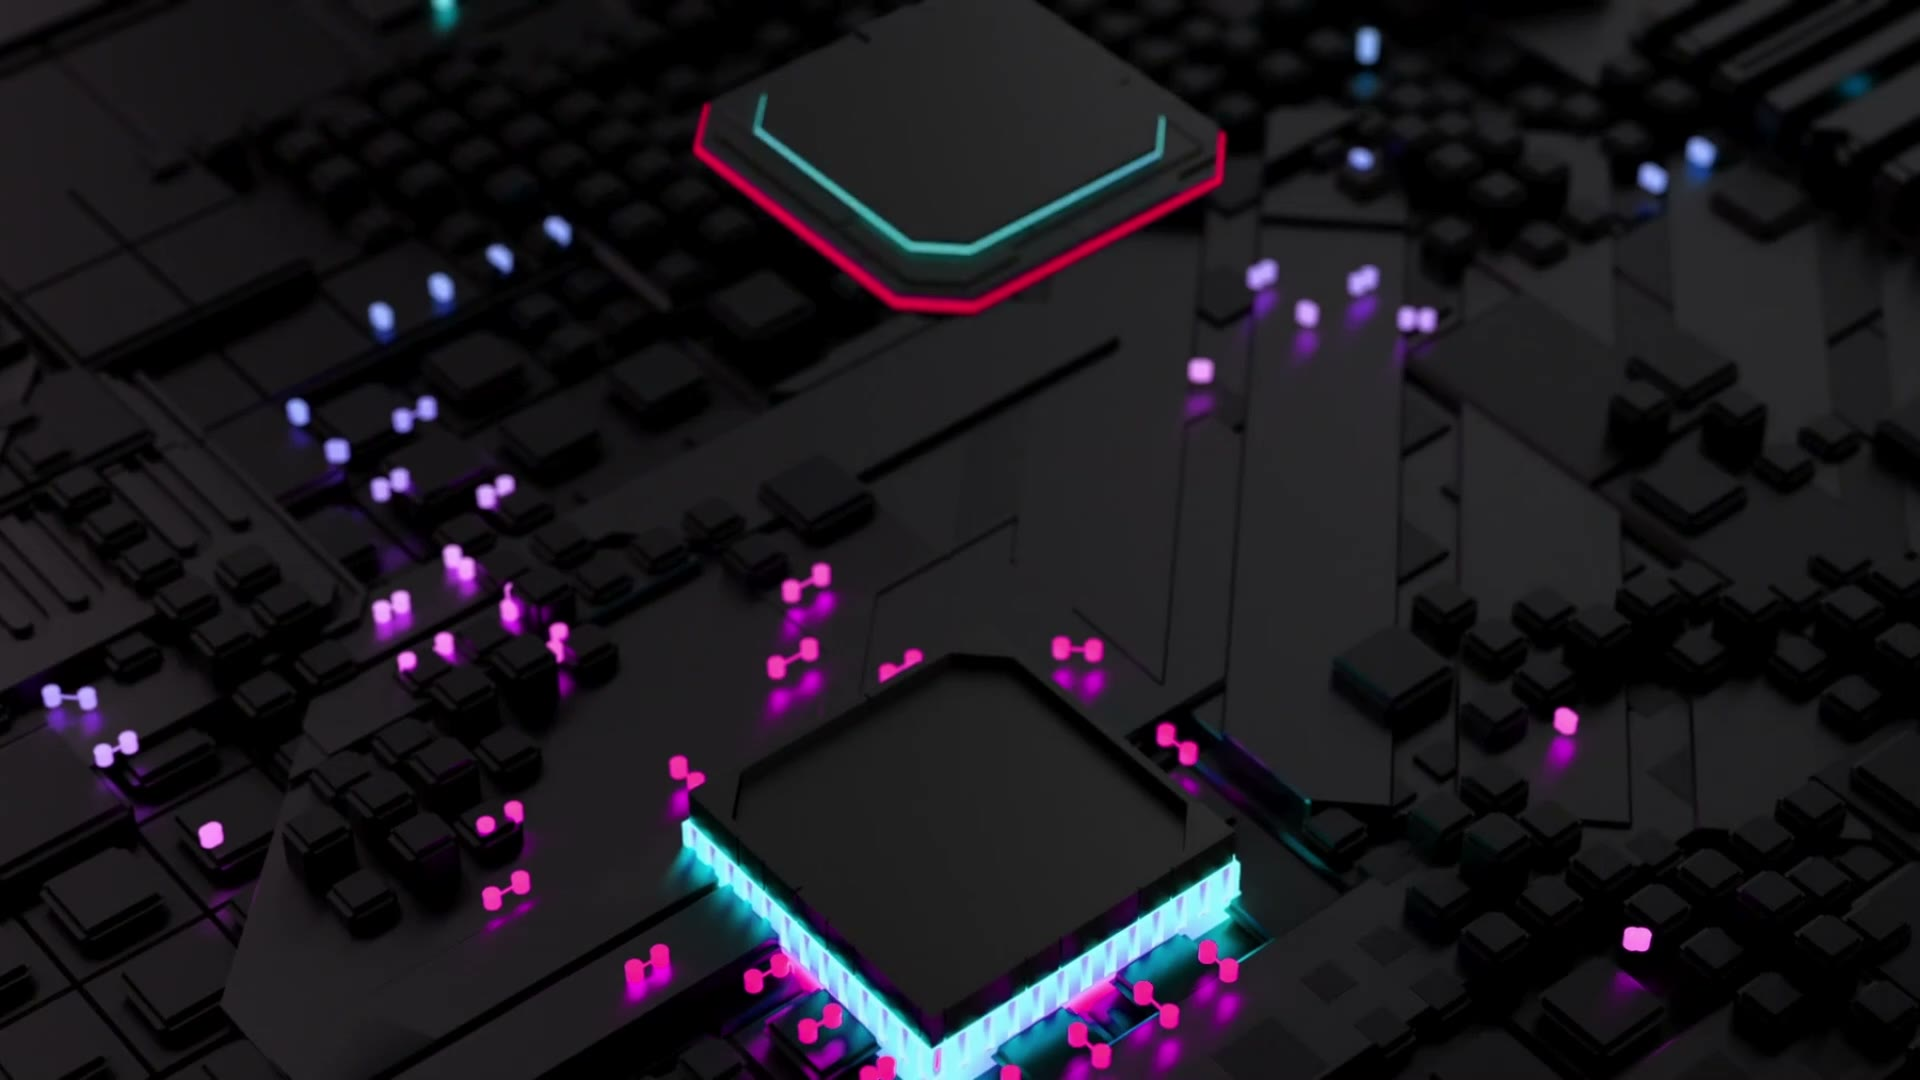
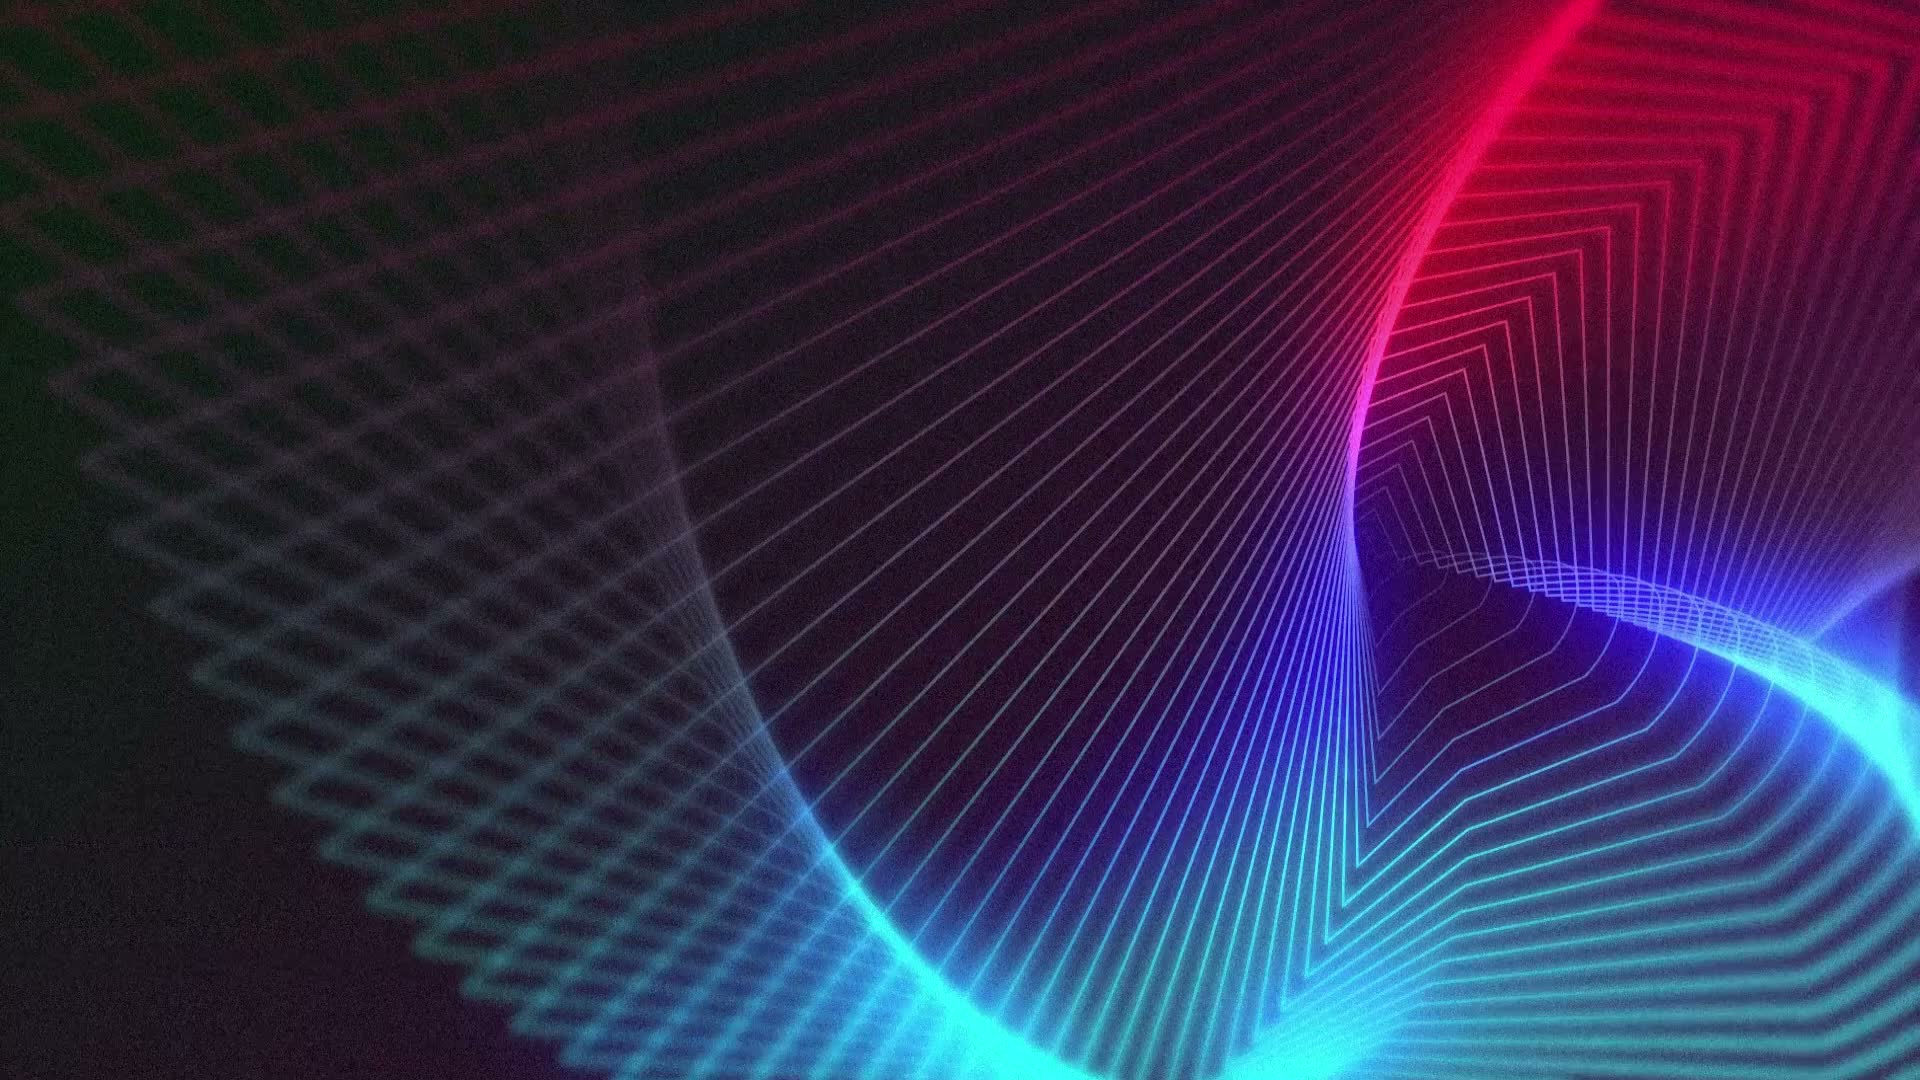
Phase 6 : video parallax fixed + autoplay loop (remplace scroll-scrub Phase 5)
Refonte complete de l'integration video Hero :
- Plus de scroll-scrub (Phase 5/5.1 supersedee) : la video joue en autoplay
  loop sur TOUS les devices (iOS + Android + desktop). Plus de branche isIOS.
- Plus de pin Hero : la section scroll naturellement vers le haut.
- Video et overlay deplaces hors de .hero (au body level) avec position:fixed
  -> restent colles au viewport pendant que le Hero scroll par dessus
  = parallax classique 'video fixe, section qui bouge'.
- Fade-out propre via classe body.no-hero-bg toggled par ScrollTrigger :
  - onLeave (bottom hero touche top viewport) -> add class + video.pause()
  - onEnterBack -> remove class + video.play()
  - transition opacity .55s sur video + overlay
- buildHeroPin() supprime, entry timeline + counters preserves intact.

Nouveau pipeline d'encodage (video source = 'neexus video.mp4' 1920x1080 30fps 2.7s) :
- Plus de keyframe-per-frame (-g 1) : inutile sans scrub -> gain massif de taille
- hero-bg-mobile.mp4 : 720x1280 portrait crop centre, CRF 24 -> 700K (vs 2.5MB Phase 5)
- hero-bg-desktop.mp4 : 1920x1080 native, CRF 22 -> 2.5MB (vs 6.2MB Phase 5)
- hero-poster.jpg : 1920x1080 q5 -> 226K
- Total payload Hero : -65% mobile / -57% desktop

.gitignore : ajout de 'neexus video.mp4' (source brute locale uniquement)

diff --git a/index.html b/index.html
@@ -326,22 +326,30 @@ body.has-cursor .cursor-glow{display:block;}
   padding:0 36px;
   overflow:hidden;
   z-index:2;
-  isolation:isolate;      /* Phase 5 : stacking context propre pour la video */
-  will-change:transform;  /* hero is pinned + scrubbed, force GPU */
+  /* Phase 6 : will-change retiré (plus de pin), isolation retirée
+     (video maintenant au body level, pas besoin de stacking context). */
 }
-/* Phase 5 : background video scroll-scrubbed */
+/* Phase 6 : video + overlay PARALLAX (fixed dans le viewport, hors flow Hero).
+   La video reste collée au viewport pendant que le Hero scroll par dessus
+   = effet parallax classique. Opacity fade quand on quitte le Hero (la classe
+   .no-hero-bg sur body est toggled par ScrollTrigger). */
 .hero-bg-video{
-  position:absolute;inset:0;
-  width:100%;height:100%;
+  position:fixed;inset:0;
+  width:100vw;height:100vh;
   object-fit:cover;
   z-index:0;
   pointer-events:none;
+  opacity:1;
+  transition:opacity .55s ease;
   background:var(--bg-1);    /* fallback navy avant chargement video */
 }
 .hero-bg-overlay{
-  position:absolute;inset:0;
+  position:fixed;inset:0;
+  width:100vw;height:100vh;
   z-index:1;
   pointer-events:none;
+  opacity:1;
+  transition:opacity .55s ease;
   /* darker vers le bas : fade fluide vers le fond du Constat */
   background:linear-gradient(180deg,
     rgba(7,10,20,.35) 0%,
@@ -349,6 +357,11 @@ body.has-cursor .cursor-glow{display:block;}
     rgba(7,10,20,.90) 92%,
     rgba(10,14,26,1)  100%
   );
+}
+/* Fade-out propre quand on quitte le Hero (toggled par initHero() en JS) */
+body.no-hero-bg .hero-bg-video,
+body.no-hero-bg .hero-bg-overlay{
+  opacity:0;
 }
 .hero-grid-bg{
   position:absolute;inset:0;
@@ -2268,24 +2281,29 @@ a[href="#faq"]{
   <a href="#cta" class="gradient-text">Audit gratuit →</a>
 </div>
 
+<!-- Phase 6 : video de fond + overlay PARALLAX (fixed dans le viewport)
+     Placés au niveau body (hors de .hero) car .hero crée un containing
+     block (via will-change) qui empecherait position:fixed d'echapper
+     a la section. Video joue en autoplay loop, opacity fade quand on
+     quitte le Hero (classe .no-hero-bg toggled par ScrollTrigger).
+     muted + playsinline = obligatoire iOS Safari pour autoplay decode -->
+<video class="hero-bg-video"
+       muted
+       playsinline
+       webkit-playsinline
+       autoplay
+       loop
+       preload="auto"
+       poster="hero-poster.jpg">
+  <source src="hero-bg-mobile.mp4" type="video/mp4" media="(max-width:1024px)">
+  <source src="hero-bg-desktop.mp4" type="video/mp4">
+</video>
+<div class="hero-bg-overlay"></div>
+
 <!-- ============================================================
      HERO
      ============================================================ -->
 <section class="hero" id="hero">
-  <!-- Phase 5 : video de fond scroll-scrubbed (mobile + desktop)
-       2 sources via media query : mobile = 720x1280 / desktop = 1920x1080
-       muted + playsinline = obligatoire iOS Safari pour autoplay/decode
-       pas de "loop" ni "autoplay" : on contrôle via JS (pause + scrub) -->
-  <video class="hero-bg-video"
-         muted
-         playsinline
-         webkit-playsinline
-         preload="auto"
-         poster="hero-poster.jpg">
-    <source src="hero-bg-mobile.mp4" type="video/mp4" media="(max-width:1024px)">
-    <source src="hero-bg-desktop.mp4" type="video/mp4">
-  </video>
-  <div class="hero-bg-overlay"></div>
   <div class="hero-grid-bg"></div>
   <div class="hero-inner">
     <h1 class="hero-title">
@@ -3726,82 +3744,46 @@ function initHeroPinned(){
 
   if (reducedMotion) return;
 
-  /* 2) PINNED SCRUB — desktop and mobile both get the pin, different lengths */
-  gsap.matchMedia()
-    .add(QUERY_DESKTOP, () => buildHeroPin('+=120%'))
-    .add(QUERY_MOBILE,  () => buildHeroPin('+=80%'));
-
-  function buildHeroPin(end){
-    /* Phase 5.1 : SCRUB VIDEO avec FALLBACK iOS autoplay-loop
-       iOS Safari refuse de scrub video.currentTime de facon fluide (bug
-       WebKit historique). Detect iOS -> autoplay loop fallback. Android
-       + desktop = vrai scrub. C'est le pattern des sites premium pour iOS. */
-    const video = document.querySelector('.hero-bg-video');
-    let videoReady = false;
-    const isIOS = /iPad|iPhone|iPod/.test(navigator.userAgent) ||
-                  (navigator.platform === 'MacIntel' && navigator.maxTouchPoints > 1);
-    const useScrub = !isIOS;
-
-    if (video && !reducedMotion){
-      video.muted = true;
-      video.playsInline = true;
-
-      if (useScrub){
-        /* Android + desktop : on prend le controle JS pour scrub */
-        video.removeAttribute('autoplay');
-        video.removeAttribute('loop');
-        const onMeta = () => {
-          try { video.pause(); video.currentTime = 0; } catch(e){}
-          videoReady = true;
-        };
-        if (video.readyState >= 1) onMeta();
-        else video.addEventListener('loadedmetadata', onMeta, { once:true });
-      } else {
-        /* iOS : autoplay loop fallback. La video joue en continu en
-           arriere-plan du Hero sans reagir au scroll. C'est cinematique
-           quand meme. On reaffirme les attributs et on force play() apres
-           canplay au cas ou iOS aurait bloque l'autoplay HTML natif. */
-        video.loop = true;
-        video.autoplay = true;
-        const tryPlay = () => video.play().catch(()=>{});
-        if (video.readyState >= 3) tryPlay();
-        else video.addEventListener('canplay', tryPlay, { once: true });
-      }
-    }
-
-    const heroTl = gsap.timeline({
-      scrollTrigger: {
-        trigger: '.hero',
-        start: 'top top',
-        end,
-        pin: true,
-        scrub: 1,
-        anticipatePin: 1,
-        invalidateOnRefresh: true,
-        onUpdate: self => {
-          /* Scrub seulement si !iOS. iOS = video joue en autoplay loop,
-             pas touchee par le scroll (volontairement, sinon stutter). */
-          if (useScrub && video && videoReady && video.duration){
-            const target = video.duration * self.progress;
-            if (Math.abs(video.currentTime - target) > 0.016){
-              video.currentTime = target;
-            }
-          }
-        }
-      }
-    });
-    /* fix : parallax adouci pour garder le texte lisible
-       (avant : sub opacity .25 -> illisible / cta-row y:40 -> decale visible).
-       Maintenant tout reste lisible meme en mi-scrub. */
-    heroTl
-      .to('.hero-title',       { y: -50, opacity: .8,  ease: 'none' }, 0)
-      .to('.hero-sub',         { y: -30, opacity: .75, ease: 'none' }, 0)
-      .to('.cta-row',          { y: 18,  opacity: .85, ease: 'none' }, 0)
-      .to('.hero-micro-proof', { y: -10, opacity: .9, ease: 'none' }, 0.2)   /* fix : restent visibles pendant scrub */
-      .to('.orb-1',            { scale: 1.4, opacity: .85, ease: 'none' }, 0)
-      .to('.orb-2',            { scale: 1.6, opacity: .75, ease: 'none' }, 0);
-    return () => heroTl.scrollTrigger?.kill();
+  /* Phase 6 : VIDEO PARALLAX FIXED + FADE OUT
+     -----------------------------------------------------------------
+     Plus de pin Hero, plus de scrub video. La video joue en autoplay
+     loop sur TOUS les devices (iOS + Android + desktop). Elle est
+     position:fixed dans le viewport (cf CSS) → reste collee a l'ecran
+     pendant que le Hero scroll par dessus = parallax classique.
+     Une ScrollTrigger toggle body.no-hero-bg quand on quitte le Hero
+     pour fader proprement vers les sections suivantes.
+     ----------------------------------------------------------------- */
+  const video = document.querySelector('.hero-bg-video');
+  if (video){
+    /* attributs deja en HTML (autoplay loop muted playsinline) mais on
+       reaffirme via JS pour fiabilite + on appelle play() explicitement
+       apres canplay au cas ou iOS aurait bloque l'autoplay HTML natif. */
+    video.muted = true;
+    video.playsInline = true;
+    video.loop = true;
+    const tryPlay = () => video.play().catch(()=>{});
+    if (video.readyState >= 3) tryPlay();
+    else video.addEventListener('canplay', tryPlay, { once: true });
   }
+
+  /* Toggle body.no-hero-bg pour fader video+overlay en sortie de Hero.
+     onLeave : bottom du Hero touche top viewport → fade out + pause.
+     onEnterBack : on remonte dans le Hero → fade in + play.
+     Pas de onEnter / onLeaveBack : au load on est deja dans le Hero,
+     CSS default = opacity:1, classe absente. */
+  ScrollTrigger.create({
+    trigger: '.hero',
+    start: 'top top',
+    end: 'bottom top',
+    onLeave: () => {
+      document.body.classList.add('no-hero-bg');
+      if (video) video.pause();   /* gain CPU/batterie hors viewport */
+    },
+    onEnterBack: () => {
+      document.body.classList.remove('no-hero-bg');
+      if (video) video.play().catch(()=>{});
+    }
+  });
 }
 
 /* ============================================================